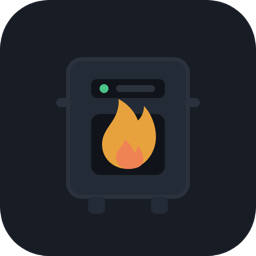
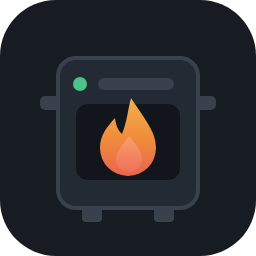
Repository nach dem Muster der übrigen Add-ons vervollständigt
Gegen HA-rolloplaner, HA-heizungsplaner und HA-urlaubsplaner abgeglichen. Was
fehlte:

* README auf Deutsch und Englisch statt einer zweisprachigen Datei, jeweils
  mit dem Knopf, der das Repository in Home Assistant hinzufügt
* ein kurzes README im Add-on-Verzeichnis, das auf die Dokumentation zeigt
* die Bilder unter doku/bilder/ statt in der Wurzel
* doku/LIESMICH.md mit den Bildquellen und dem Weg, sie neu zu erzeugen
* repository.yaml nannte das Add-on statt der Quelle - im Store ist das die
  Überschrift über der Kachel

Und ein Fehler, den man nur sieht, wenn man hinschaut: Das Logo trug seit der
Umbenennung noch "Kesselmanager". Icon und Logo haben jetzt SVG-Quellen, das
Logo den richtigen Namen; das Icon ist bei 32 px gegengeprüft.

diff --git a/README.md b/README.md
@@ -1,110 +1,97 @@
-# Heizungsanlagenmanager via BSB-LAN
+# Heating System Manager · Heizungsanlagenmanager
 
-Ein Home-Assistant-Add-on, das eine Heizungsregelung über
-[BSB-LAN](https://github.com/fredlcore/BSB-LAN) bedienbar macht – mit
-derselben Gliederung, die auch am Gerät auf dem Kessel steht.
+A Home Assistant add-on that makes a heating controller usable through
+[BSB-LAN](https://github.com/fredlcore/BSB-LAN) — with the same structure you
+find on the boiler's own panel.
 
-*A Home Assistant add-on that makes a heating controller usable through
-BSB-LAN – with the same structure you find on the boiler's own panel.
-[Documentation in English](heizungsanlage/DOCS.md).*
+[![Add repository to Home Assistant](https://my.home-assistant.io/badges/supervisor_add_addon_repository.svg)](https://my.home-assistant.io/redirect/supervisor_add_addon_repository/?repository_url=https%3A%2F%2Fgithub.com%2FMelle79%2FHA-heizungsanlagenmanager)
 
-![Der Reiter „Regelung“ mit einem Zeitschaltprogramm](bilder/regelung.png)
+> 📖 Full manual: **[DOCS.md](heizungsanlage/DOCS.md)** ·
+> 🇩🇪 Auf Deutsch: **[README.de.md](README.de.md)**
 
-## Was es kann
+**The interface is German.** The documentation comes in both languages; the
+add-on itself does not yet.
 
-**Bedienen statt nur anzeigen.** Die Kategorien kommen aus der Regelung
-selbst, gruppiert nach dem, was sie tun – Heizen, Trinkwasser, Wärmeerzeuger,
-Wartung. Stellbare Parameter bekommen gleich das passende Bedienelement.
-Zeitschaltprogramme erscheinen als **Wochentabelle** statt als Zeichenkette,
-und darüber steht, ob dieses Programm gerade läuft.
+![The “Regelung” tab with a time programme](heizungsanlage/doku/bilder/regelung.png)
 
-**Keine fest eingebauten Parameternummern.** Was auf der Übersicht steht,
-welche Kategorien Schaltzeiten führen, welcher Parameter das aktive Programm
-wählt – alles leitet das Add-on aus dem Katalog *deiner* Anlage ab, aus Namen
-und Datentypen. Damit läuft es auf jeder Regelung, die BSB-LAN bedient: BSB,
-LPB und PPS.
+## What it does
 
-**Zwei Wege nach Home Assistant.** Entweder meldet das Add-on die ausgewählten
-Parameter selbst – oder es richtet BSB-LAN so ein, dass der Adapter es tut,
-und hält sich dann heraus. Broker und Zugangsdaten kommen dabei von Home
-Assistant selbst; abtippen musst du nichts.
+**Operate, not just display.** The categories come from the controller itself,
+grouped by what they do — heating, domestic hot water, heat generator,
+maintenance. Writable parameters get the matching control. Time programmes
+appear as a **weekly table** instead of a string, and above it you see whether
+that programme is the one currently running.
 
-![Der Reiter „Home Assistant“](bilder/mqtt.png)
+**No parameter numbers baked in.** What appears on the overview, which
+categories hold switching times, which parameter selects the active
+programme — all of it is derived from *your* system's catalogue, from names
+and data types. So it runs on any controller BSB-LAN speaks to: BSB, LPB and
+PPS.
 
-**Vorsichtig mit der Anlage.** Stellen geht erst, wenn zwei Schalter stehen –
-der in BSB-LAN und der im Add-on, beide ab Werk aus. Der Bus wird in Bündeln
-mit Pausen abgefragt, nicht im Dauerfeuer. Und nach jedem Schreiben wird
-zurückgelesen: Was das Gerät danach führt, zählt, nicht was ihm geschickt
-wurde.
+**Two ways into Home Assistant.** Either the add-on publishes the selected
+parameters itself — or it configures BSB-LAN to do it and then stands back.
+Broker and credentials come from Home Assistant; you type nothing.
 
-![Eine Kategorie mit stellbaren Sollwerten](bilder/regler.png)
+![The “Home Assistant” tab](heizungsanlage/doku/bilder/mqtt.png)
 
-## Voraussetzungen
+**Careful with the system.** Writing needs two switches — one in BSB-LAN, one
+in the add-on, both off by default. The bus is polled in bundles with pauses,
+not continuously. And every write is read back: what the device holds
+afterwards counts, not what it was sent.
 
-* Ein laufendes [BSB-LAN](https://github.com/fredlcore/BSB-LAN) im selben Netz
-  (entwickelt und geprüft mit 5.1.18)
-* Ein MQTT-Broker in Home Assistant
+![A category with writable setpoints](heizungsanlage/doku/bilder/regler.png)
+
+## Requirements
+
+* A running [BSB-LAN](https://github.com/fredlcore/BSB-LAN) on the same
+  network (developed and tested against 5.1.18)
+* An MQTT broker in Home Assistant
 
 ## Installation
 
-1. In Home Assistant unter **Einstellungen → Add-ons → Add-on-Store** über das
-   Dreipunktmenü **Repositories** hinzufügen:
-   `https://github.com/Melle79/HA-heizungsanlagenmanager`
-2. *Heizungsanlagenmanager via BSB-LAN* installieren und starten.
-3. Unter **Einstellungen** die Adresse von BSB-LAN eintragen und den
-   **Parameterkatalog einlesen** – das dauert ein bis zwei Minuten, weil jede
-   Kategorie einzeln über den Bus geht.
-4. Unter **Home Assistant** anhaken, was als Entität erscheinen soll.
+Add this address as an add-on repository in Home Assistant
+(*Settings → Add-ons → Add-on Store → ⋮ → Repositories*):
 
-Alles Weitere steht im [Handbuch](heizungsanlage/DOCS.de.md)
-([English](heizungsanlage/DOCS.md)).
+```
+https://github.com/Melle79/HA-heizungsanlagenmanager
+```
 
-## Was BSB-LAN dabei beigebracht hat
+Then install *Heizungsanlagenmanager via BSB-LAN* and start it. Under
+**Einstellungen** enter the address of BSB-LAN and read the **parameter
+catalogue** — that takes a minute or two, because every category goes over the
+bus on its own. Under **Home Assistant**, tick what should become an entity.
 
-Ein paar Eigenheiten, die man erst am lebenden Gerät findet – sie stehen hier,
-damit der nächste sie nicht noch einmal suchen muss:
+## What BSB-LAN taught us along the way
 
-* `/JW` nimmt nur `parameter` und `value`. Gibt man den vollständigen Eintrag
-  aus `/JL` zurück, antwortet BSB-LAN mit einer leeren Struktur und ändert
-  nichts – ohne Fehlermeldung.
-* Die Log-Parameterliste fasst **höchstens 40** Einträge. Alles darüber fällt
-  stillschweigend weg.
-* Auto-Discovery widerrufen (`/M0!<ziel>`) wirkt nur auf das, was gerade in
-  der Liste steht. Reihenfolge also: abmelden, Liste ändern, anmelden.
-* `/JL` liefert in 5.1.18 kaputtes JSON, wenn keine One-Wire- oder DHT-Pins
-  gesetzt sind.
+A few quirks you only find on a live device — written down so the next person
+does not have to look for them:
 
-## Selber daran arbeiten
+* `/JW` accepts only `parameter` and `value`. Hand back the complete entry as
+  `/JL` delivers it and BSB-LAN answers with an empty structure and changes
+  nothing — without an error.
+* The log parameter list holds **at most 40** entries. Anything beyond that is
+  dropped silently.
+* Revoking auto-discovery (`/M0!<target>`) only affects what is currently in
+  the list. So the order is: revoke, change the list, announce.
+* `/JL` returns malformed JSON in 5.1.18 when no One-Wire or DHT pins are set.
 
-Die Prüfungen laufen ohne Heizung und ohne Home Assistant – BSB-LAN ist darin
-gefälscht:
+## Working on it
+
+The checks run without a boiler and without Home Assistant — BSB-LAN is faked:
 
 ```sh
 ./pruefen.sh
 ```
 
-Beim ersten Aufruf legt das Skript sich eine eigene Python-Umgebung unter
-`.venv/` an und holt sich, was im Add-on das Dockerfile besorgt.
+On first use the script creates its own Python environment under `.venv/` and
+fetches what the Dockerfile provides inside the add-on.
 
-## Dank
+## Thanks
 
-An [Frederik Holst](https://github.com/fredlcore) und alle, die an BSB-LAN
-mitgebaut haben. Ohne die angepasste Parameterliste für die eigene
-Gerätefamilie wäre aus „Parameter 72“ nie „Gerätebetriebsstunden“ geworden.
+To [Frederik Holst](https://github.com/fredlcore) and everyone who built
+BSB-LAN. Without the adapted parameter list for one's own device family,
+“parameter 72” would never have become “Gerätebetriebsstunden”.
 
-## Lizenz
+## Licence
 
 MIT
-
-## Haftungsausschluss
-
-Dies ist ein **privates Hobby-Projekt** ohne kommerziellen Hintergrund. Die
-Nutzung erfolgt auf eigene Gefahr – **jegliche Haftung ist ausgeschlossen**
-(siehe auch MIT-Lizenz). Es findet **kein Support** statt; Issues und Pull
-Requests werden möglicherweise nicht beantwortet.
-
-Das gilt hier mit Nachdruck: Das Add-on schreibt auf einen Bus, an dem die
-Heizungsregelung eines Hauses hängt. Das Stellen ist deshalb ab Werk
-**gesperrt** und muss bewusst freigegeben werden. Ein falscher Sollwert lässt
-im Winter eine Wohnung auskühlen – prüft jeden Parameter, bevor ihr ihn
-schreibt.

diff --git a/README.de.md b/README.de.md
@@ -1,0 +1,99 @@
+# Heizungsanlagenmanager · Heating System Manager
+
+Ein Home-Assistant-Add-on, das eine Heizungsregelung über
+[BSB-LAN](https://github.com/fredlcore/BSB-LAN) bedienbar macht – mit
+derselben Gliederung, die auch am Gerät auf dem Kessel steht.
+
+[![Repository zu Home Assistant hinzufügen](https://my.home-assistant.io/badges/supervisor_add_addon_repository.svg)](https://my.home-assistant.io/redirect/supervisor_add_addon_repository/?repository_url=https%3A%2F%2Fgithub.com%2FMelle79%2FHA-heizungsanlagenmanager)
+
+> 📖 Ausführliche Anleitung: **[DOCS.de.md](heizungsanlage/DOCS.de.md)** ·
+> 🇬🇧 In English: **[README.md](README.md)**
+
+![Der Reiter „Regelung" mit einem Zeitschaltprogramm](heizungsanlage/doku/bilder/regelung.png)
+
+## Was es kann
+
+**Bedienen statt nur anzeigen.** Die Kategorien kommen aus der Regelung
+selbst, gruppiert nach dem, was sie tun – Heizen, Trinkwasser, Wärmeerzeuger,
+Wartung. Stellbare Parameter bekommen gleich das passende Bedienelement.
+Zeitschaltprogramme erscheinen als **Wochentabelle** statt als Zeichenkette,
+und darüber steht, ob dieses Programm gerade läuft.
+
+**Keine fest eingebauten Parameternummern.** Was auf der Übersicht steht,
+welche Kategorien Schaltzeiten führen, welcher Parameter das aktive Programm
+wählt – alles leitet das Add-on aus dem Katalog *deiner* Anlage ab, aus Namen
+und Datentypen. Damit läuft es auf jeder Regelung, die BSB-LAN bedient: BSB,
+LPB und PPS.
+
+**Zwei Wege nach Home Assistant.** Entweder meldet das Add-on die ausgewählten
+Parameter selbst – oder es richtet BSB-LAN so ein, dass der Adapter es tut,
+und hält sich dann heraus. Broker und Zugangsdaten kommen dabei von Home
+Assistant selbst; abtippen musst du nichts.
+
+![Der Reiter „Home Assistant"](heizungsanlage/doku/bilder/mqtt.png)
+
+**Vorsichtig mit der Anlage.** Stellen geht erst, wenn zwei Schalter stehen –
+der in BSB-LAN und der im Add-on, beide ab Werk aus. Der Bus wird in Bündeln
+mit Pausen abgefragt, nicht im Dauerfeuer. Und nach jedem Schreiben wird
+zurückgelesen: Was das Gerät danach führt, zählt, nicht was ihm geschickt
+wurde.
+
+![Eine Kategorie mit stellbaren Sollwerten](heizungsanlage/doku/bilder/regler.png)
+
+## Voraussetzungen
+
+* Ein laufendes [BSB-LAN](https://github.com/fredlcore/BSB-LAN) im selben Netz
+  (entwickelt und geprüft mit 5.1.18)
+* Ein MQTT-Broker in Home Assistant
+
+## Installation
+
+Diese Adresse in Home Assistant als Add-on-Repository hinzufügen
+(*Einstellungen → Add-ons → Add-on-Store → ⋮ → Repositories*):
+
+```
+https://github.com/Melle79/HA-heizungsanlagenmanager
+```
+
+Danach *Heizungsanlagenmanager via BSB-LAN* installieren und starten. Unter
+**Einstellungen** die Adresse von BSB-LAN eintragen und den
+**Parameterkatalog einlesen** – das dauert ein bis zwei Minuten, weil jede
+Kategorie einzeln über den Bus geht. Unter **Home Assistant** anhaken, was als
+Entität erscheinen soll.
+
+## Was BSB-LAN dabei beigebracht hat
+
+Ein paar Eigenheiten, die man erst am lebenden Gerät findet – sie stehen hier,
+damit der nächste sie nicht noch einmal suchen muss:
+
+* `/JW` nimmt nur `parameter` und `value`. Gibt man den vollständigen Eintrag
+  aus `/JL` zurück, antwortet BSB-LAN mit einer leeren Struktur und ändert
+  nichts – ohne Fehlermeldung.
+* Die Log-Parameterliste fasst **höchstens 40** Einträge. Alles darüber fällt
+  stillschweigend weg.
+* Auto-Discovery widerrufen (`/M0!<ziel>`) wirkt nur auf das, was gerade in
+  der Liste steht. Reihenfolge also: abmelden, Liste ändern, anmelden.
+* `/JL` liefert in 5.1.18 kaputtes JSON, wenn keine One-Wire- oder DHT-Pins
+  gesetzt sind.
+
+## Selber daran arbeiten
+
+Die Prüfungen laufen ohne Heizung und ohne Home Assistant – BSB-LAN ist darin
+gefälscht:
+
+```sh
+./pruefen.sh
+```
+
+Beim ersten Aufruf legt das Skript sich eine eigene Python-Umgebung unter
+`.venv/` an und holt sich, was im Add-on das Dockerfile besorgt.
+
+## Dank
+
+An [Frederik Holst](https://github.com/fredlcore) und alle, die an BSB-LAN
+mitgebaut haben. Ohne die angepasste Parameterliste für die eigene
+Gerätefamilie wäre aus „Parameter 72" nie „Gerätebetriebsstunden" geworden.
+
+## Lizenz
+
+MIT

diff --git a/heizungsanlage/doku/LIESMICH.md b/heizungsanlage/doku/LIESMICH.md
@@ -1,0 +1,38 @@
+# Bildquellen
+
+`icon.svg` und `logo.svg` sind die Quellen für `icon.png` (256×256) und
+`logo.png` (560×200) im Add-on-Verzeichnis. Neu erzeugen mit einem Browser im
+Kopflos-Betrieb:
+
+```sh
+chrome --headless=new --hide-scrollbars --default-background-color=00000000 \
+       --window-size=256,256 --screenshot=icon.png  doku/icon.svg
+chrome --headless=new --hide-scrollbars \
+       --window-size=560,200 --screenshot=logo.png  doku/logo.svg
+```
+
+Das Motiv: ein Kessel mit Betriebsleuchte, Anzeige und Schauglas, dahinter die
+Flamme – die beiden Dinge, um die es geht. Der Kasten bleibt schlicht, weil das
+Icon in der Seitenleiste bei **32 px** ankommt; jedes zusätzliche Detail wird
+dort zu Grau. Wer etwas ändert, soll es bei dieser Größe gegenprüfen:
+
+```sh
+sips --resampleWidth 32 icon.png --out /tmp/probe.png
+```
+
+**Eine Falle beim Nachbauen:** Die Verläufe der Flamme stehen in festen
+Koordinaten (`gradientUnits="userSpaceOnUse"`) und nicht in der Bounding-Box
+des Pfades. Das ist Absicht – in der Bounding-Box verzerrt sich der Verlauf
+mit jeder Formänderung, und aus dem Farbverlauf von Gelb nach Rot wird ein
+Streifen. Dafür muss beim Einbetten ins Logo die **ganze Gruppe** skaliert
+werden, nicht der einzelne Pfad.
+
+Die Schrift im Logo ist *Avenir Next* (Rückfall: Nunito, System). Sie steckt
+nicht in der SVG-Datei; wer das Logo auf einem Rechner ohne diese Schrift neu
+erzeugt, bekommt ein anderes Schriftbild.
+
+## bilder/
+
+Die Bildschirmfotos für README und Handbuch. Sie entstehen aus der echten
+Oberfläche, nicht aus einem Entwurf – mit einem gefälschten Backend, damit
+keine fremde Anlage darauf zu sehen ist.

diff --git a/heizungsanlage/DOCS.de.md b/heizungsanlage/DOCS.de.md
@@ -69,7 +69,7 @@ weil jede Kategorie einzeln über den Bus geht.
 
 ## Der Reiter „Regelung“
 
-![Zeitschaltprogramm als Wochentabelle](https://raw.githubusercontent.com/Melle79/HA-heizungsanlagenmanager/main/bilder/regelung.png)
+![Zeitschaltprogramm als Wochentabelle](https://raw.githubusercontent.com/Melle79/HA-heizungsanlagenmanager/main/heizungsanlage/doku/bilder/regelung.png)
 
 
 Hier bedienst du die Anlage so, wie du es am Gerät auf dem Kessel tätest –
@@ -148,7 +148,7 @@ Regelung selbst als beschreibbar meldet, und fragt vor jeder Änderung nach.
 
 ## Der Reiter „Home Assistant“
 
-![Auswahl und Werte in einer Tabelle](https://raw.githubusercontent.com/Melle79/HA-heizungsanlagenmanager/main/bilder/mqtt.png)
+![Auswahl und Werte in einer Tabelle](https://raw.githubusercontent.com/Melle79/HA-heizungsanlagenmanager/main/heizungsanlage/doku/bilder/mqtt.png)
 
 
 Alles, was mit dem Weg nach Home Assistant zu tun hat, steht auf einer Seite:

diff --git a/heizungsanlage/CHANGELOG.md b/heizungsanlage/CHANGELOG.md
@@ -1,5 +1,17 @@
 # Änderungen
 
+## 1.15.2
+
+- **Behoben: Das Logo trug noch den alten Namen.** Im Add-on-Store stand
+  „Kesselmanager“ – seit der Umbenennung falsch, und niemandem aufgefallen,
+  weil das Bild niemand liest, sondern nur sieht.
+- Icon und Logo haben jetzt **Quellen** (`doku/icon.svg`, `doku/logo.svg`) samt
+  Anleitung, wie man sie neu erzeugt. Vorher gab es nur die fertigen PNG.
+- Das Repository ist nach dem Muster der übrigen Add-ons vervollständigt:
+  README auf Deutsch und Englisch mit dem Knopf zum Hinzufügen des
+  Repositories, ein kurzes README im Add-on-Verzeichnis, und die Bilder unter
+  `doku/bilder/`.
+
 ## 1.16.0
 
 - **Das Add-on sagt jetzt an, wo es zu erreichen ist.** Beim Verbinden mit

diff --git a/heizungsanlage/DOCS.md b/heizungsanlage/DOCS.md
@@ -49,7 +49,7 @@ bus separately.
 
 ## The “Regelung” tab
 
-![Time programme as a weekly table](https://raw.githubusercontent.com/Melle79/HA-heizungsanlagenmanager/main/bilder/regelung.png)
+![Time programme as a weekly table](https://raw.githubusercontent.com/Melle79/HA-heizungsanlagenmanager/main/heizungsanlage/doku/bilder/regelung.png)
 
 
 Here you operate the system the way you would at the unit on the boiler –

diff --git a/heizungsanlage/README.md b/heizungsanlage/README.md
@@ -1,0 +1,8 @@
+# Heizungsanlagenmanager via BSB-LAN
+
+Die Heizungsregelung über BSB-LAN bedienen: Kategorien wie am Kessel,
+Zeitschaltprogramme als Wochentabelle, Sollwerte stellen – und die Werte nach
+Home Assistant bringen, wahlweise durch das Add-on oder durch BSB-LAN selbst.
+
+Die vollständige Beschreibung steht in [DOCS.de.md](DOCS.de.md)
+([English](DOCS.md)) und im Reiter *Dokumentation* des Add-ons.
